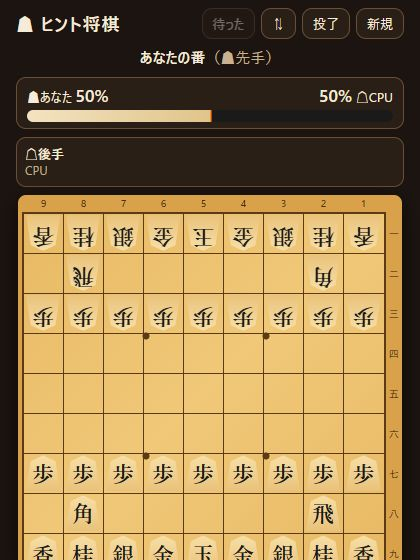
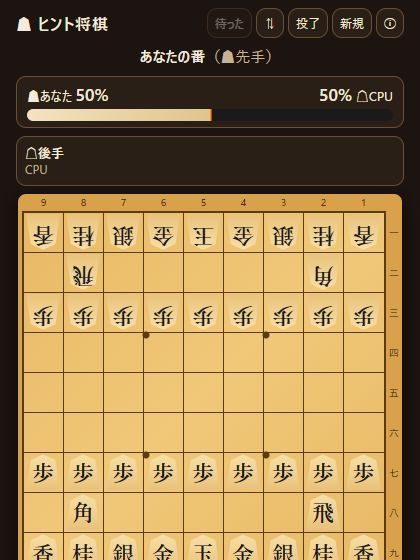
自動公開 / 更新: ヒント将棋

diff --git a/apps/shogi/index.html b/apps/shogi/index.html
@@ -4,6 +4,11 @@
 <meta charset="UTF-8">
 <meta name="viewport" content="width=device-width,initial-scale=1,maximum-scale=1,user-scalable=no">
 <title>ヒント将棋</title>
+<meta name="description" content="AIの最善手ヒントを見ながら指せる将棋。入門から最強クラスのやねうら王まで、CPUや2人で対局できます。">
+<meta name="theme-color" content="#1b1410">
+<link rel="manifest" href="manifest.webmanifest">
+<link rel="icon" href="icons/icon-192.png">
+<link rel="apple-touch-icon" href="icons/apple-touch-icon.png">
 <!-- GitHub Pages で SharedArrayBuffer を使えるようにする（やねうら王WASM用） -->
 <script src="coi-serviceworker.js"></script>
 <style>
@@ -25,6 +30,7 @@ button:disabled{opacity:.4;cursor:default}
 header{width:100%;display:flex;align-items:center;gap:6px}
 header h1{font-size:18px;margin:0;flex:1;letter-spacing:.05em}
 header button{padding:6px 10px;font-size:13px}
+@media (max-width:420px){header h1{font-size:16px;white-space:nowrap}header{gap:4px}header button{padding:6px 7px;font-size:12px}}
 #status{width:100%;text-align:center;font-size:15px;min-height:22px;color:var(--muted)}
 #status b{color:var(--text)}
 
@@ -100,6 +106,10 @@ header button{padding:6px 10px;font-size:13px}
 .box .opts button.on{border-color:var(--accent);background:#1d3a4a}
 .box .go{background:var(--accent);color:#06222e;font-weight:700;font-size:16px;border:none;padding:12px}
 .box .lab{font-size:12px;color:var(--muted);text-align:left;margin-bottom:-6px}
+.credits{text-align:left;font-size:13px;line-height:1.7;max-height:60vh;overflow:auto}
+.credits h3{font-size:14px;margin:12px 0 2px;color:var(--wood)}
+.credits p{margin:0}
+.credits a{color:var(--accent);word-break:break-all}
 .promoBtns{display:flex;gap:12px;justify-content:center}
 .promoBtns button{width:110px;height:110px;display:flex;flex-direction:column;align-items:center;justify-content:center;gap:6px;font-size:14px}
 .promoBtns .piece{width:56px;height:60px;font-size:32px}
@@ -113,6 +123,7 @@ header button{padding:6px 10px;font-size:13px}
     <button id="btnFlip" title="盤を反転">⇅</button>
     <button id="btnResign">投了</button>
     <button id="btnNew">新規</button>
+    <button id="btnInfo" title="このアプリについて" aria-label="このアプリについて">ⓘ</button>
   </header>
   <div id="status"></div>
   <div id="winBar"><div class="row"><span id="wbS"></span><span id="wbG"></span></div><div class="track"><i id="wbFill" style="width:50%"></i></div></div>
@@ -154,6 +165,30 @@ header button{padding:6px 10px;font-size:13px}
     </div>
     <button class="go" id="btnStart">対局開始</button>
     <button id="btnCloseNew">キャンセル</button>
+  </div>
+</div>
+
+<div class="modal" id="infoModal" hidden>
+  <div class="box">
+    <h2>このアプリについて</h2>
+    <div class="credits">
+      <p><b>ヒント将棋</b> v1.0</p>
+      <h3>思考エンジン</h3>
+      <p>上級・最強・鬼のCPUには、オープンソースの将棋エンジン「<b>やねうら王（YaneuraOu）</b>」の WebAssembly 版（@mizarjp/yaneuraou.k-p 7.6.3-alpha.0）を、改変せずに使用しています。</p>
+      <p>ライセンス：GNU General Public License v3（<a href="yaneuraou/LICENSE.txt" target="_blank" rel="noopener">全文</a>）</p>
+      <p>ソースコード：<br>
+        <a href="https://github.com/yaneurao/YaneuraOu" target="_blank" rel="noopener">https://github.com/yaneurao/YaneuraOu</a><br>
+        <a href="https://github.com/arashigaoka/YaneuraOu.wasm" target="_blank" rel="noopener">https://github.com/arashigaoka/YaneuraOu.wasm</a><br>
+        <a href="https://www.npmjs.com/package/@mizarjp/yaneuraou.k-p" target="_blank" rel="noopener">https://www.npmjs.com/package/@mizarjp/yaneuraou.k-p</a></p>
+      <h3>評価関数</h3>
+      <p>水匠Petite（2021-11）／たややん氏（上記パッケージに内蔵）</p>
+      <h3>そのほか</h3>
+      <p>coi-serviceworker（MIT License, Guido Zuidhof and contributors）</p>
+      <p>入門〜中級のCPUと、ヒント機能の一部は、このアプリ独自のAIです。</p>
+      <h3>プライバシー</h3>
+      <p>個人情報は集めません。設定は端末の中だけに保存されます。<a href="privacy.html" target="_blank" rel="noopener">プライバシーポリシー</a></p>
+    </div>
+    <button id="btnCloseInfo">閉じる</button>
   </div>
 </div>
 
@@ -722,6 +757,8 @@ $("btnFlip").onclick=()=>{flip=!flip;buildBoard();render();};
 $("btnResign").onclick=()=>{if(over)return;cancelSearch();
   const loser=mode==="cpu"?humanSide:pos.side;over={winner:1-loser,text:(loser===0?"☗先手":"☖後手")+"の投了",resigned:true};render();showResult();};
 $("btnNew").onclick=()=>{$("newModal").hidden=false;};
+$("btnInfo").onclick=()=>{$("infoModal").hidden=false;};
+$("btnCloseInfo").onclick=()=>{$("infoModal").hidden=true;};
 $("btnCloseNew").onclick=()=>{$("newModal").hidden=true;};
 $("btnAgain").onclick=()=>{$("resultModal").hidden=true;$("newModal").hidden=false;};
 $("btnResultClose").onclick=()=>{$("resultModal").hidden=true;};

diff --git a/apps/shogi/privacy.html b/apps/shogi/privacy.html
@@ -1,0 +1,44 @@
+<!doctype html>
+<html lang="ja">
+<head>
+<meta charset="utf-8">
+<meta name="viewport" content="width=device-width, initial-scale=1">
+<title>ヒント将棋 プライバシーポリシー</title>
+<style>
+  :root{--bg:#1b1410;--ink:#f6ead8;--muted:#c9b291;--accent:#e8b964}
+  body{margin:0;background:var(--bg);color:var(--ink);font-family:system-ui,-apple-system,"Hiragino Sans","Yu Gothic UI",sans-serif;line-height:1.8}
+  main{max-width:720px;margin:0 auto;padding:32px 16px 56px}
+  h1{font-size:24px;margin:0 0 4px}
+  h2{font-size:17px;margin:28px 0 6px;color:var(--accent)}
+  p,li{font-size:15px}
+  .muted{color:var(--muted);font-size:13px}
+  a{color:#4fc3f7}
+</style>
+</head>
+<body>
+<main>
+  <h1>ヒント将棋 プライバシーポリシー</h1>
+  <p class="muted">最終更新日：2026年10月10日</p>
+
+  <p>ヒント将棋（以下「本アプリ」）は、AIのヒントを見ながら将棋を指せるアプリです。本アプリでの情報の取り扱いを説明します。</p>
+
+  <h2>1. 集める情報</h2>
+  <p>本アプリは、名前・メールアドレス・位置情報などの個人情報を集めません。アカウント登録もありません。</p>
+
+  <h2>2. 端末に保存する情報</h2>
+  <p>CPUの強さやヒントの表示のオン・オフなどの設定を、お使いの端末の中（ブラウザの保存領域）だけに保存します。開発者のサーバーやほかの場所に送られることはありません。</p>
+
+  <h2>3. 思考エンジンについて</h2>
+  <p>CPUの思考（やねうら王を含む）は、すべてお使いの端末の中で計算されます。指し手や盤面の情報が外部に送られることはありません。</p>
+
+  <h2>4. 広告・分析ツール</h2>
+  <p>本アプリには、広告や利用状況を分析するツールは入っていません。</p>
+
+  <h2>5. このポリシーの変更</h2>
+  <p>内容を変更する場合は、このページで最終更新日とあわせてお知らせします。</p>
+
+  <h2>6. お問い合わせ</h2>
+  <p><a href="mailto:kawatomo20021113+shogi@gmail.com">kawatomo20021113+shogi@gmail.com</a></p>
+</main>
+</body>
+</html>
